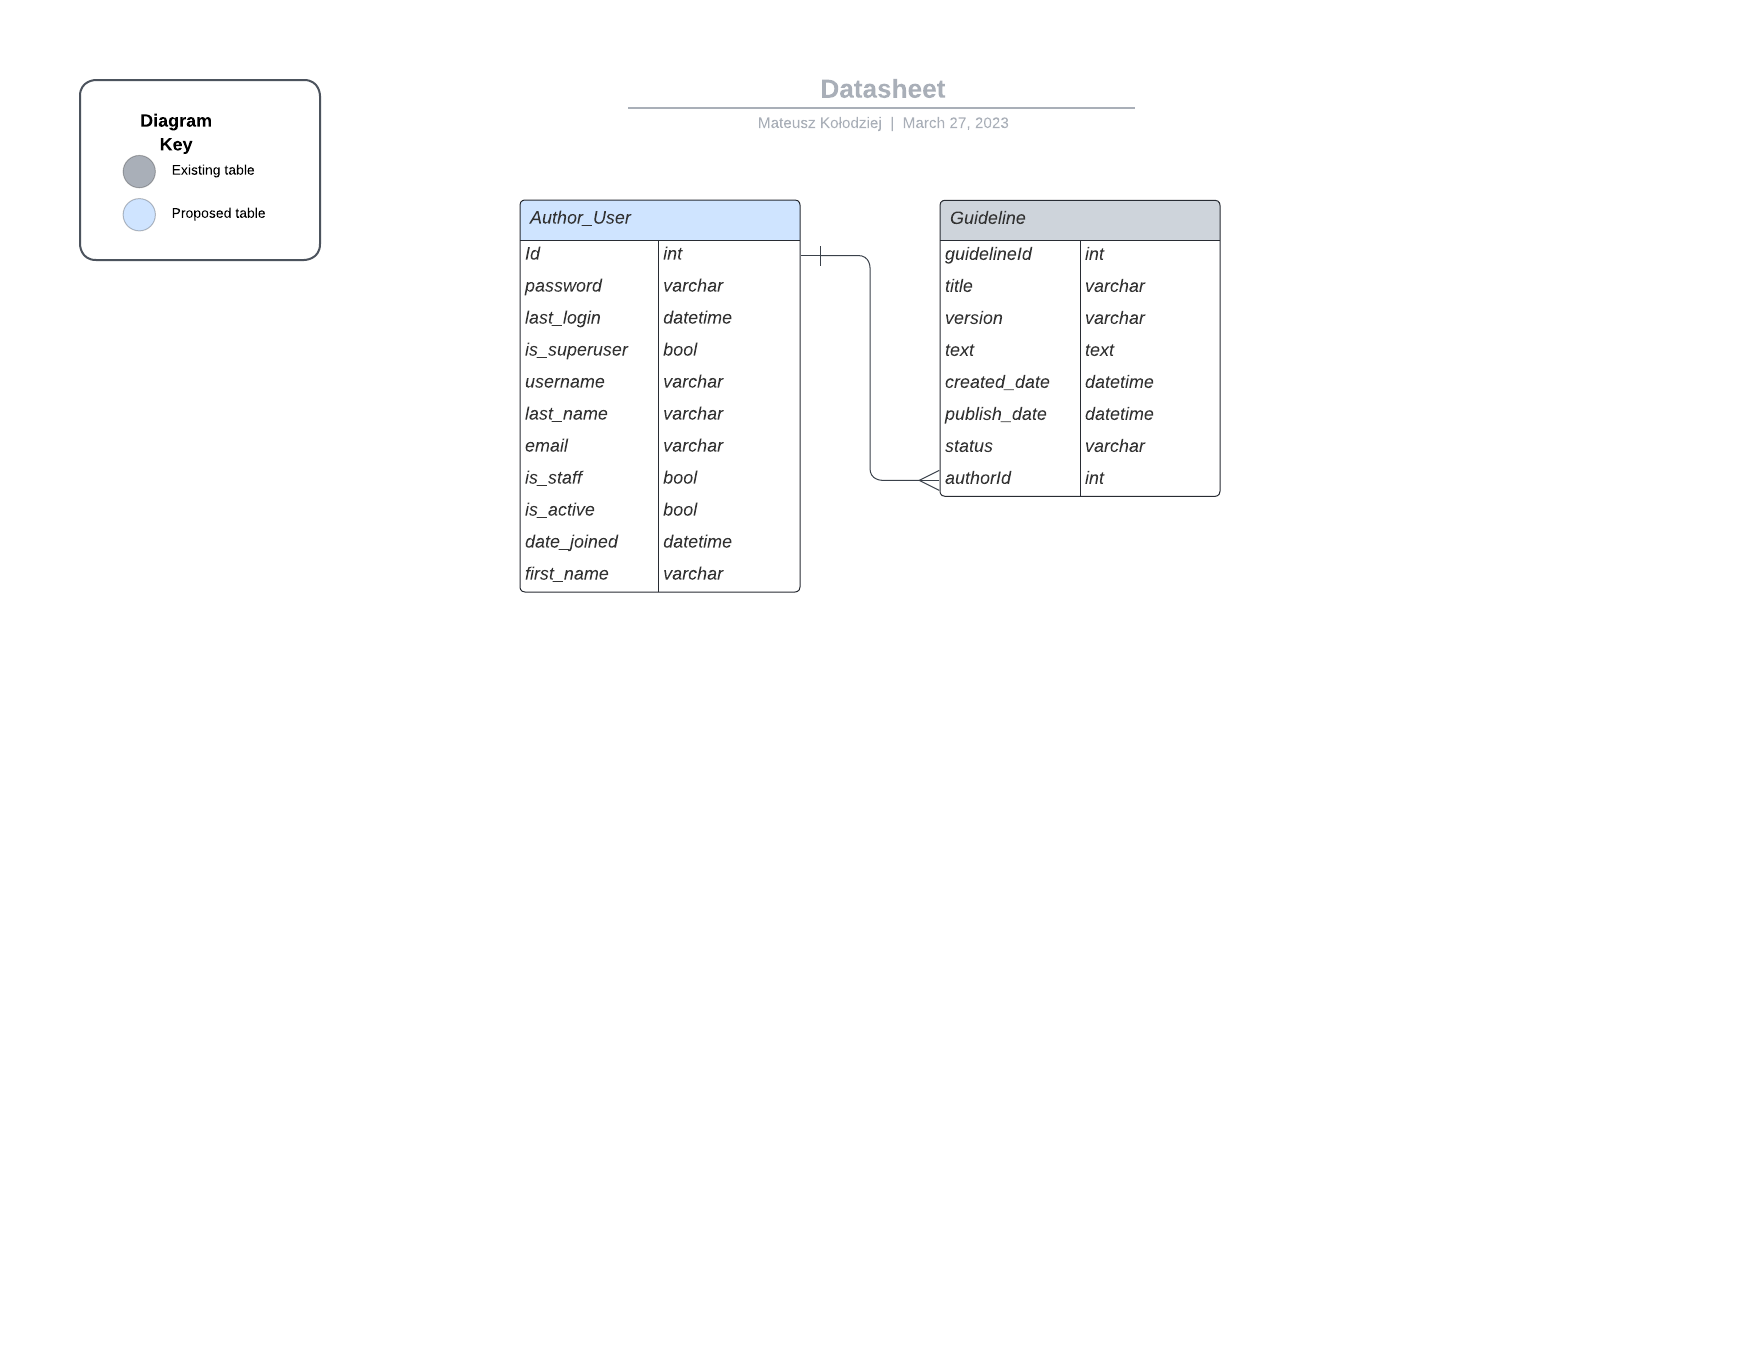
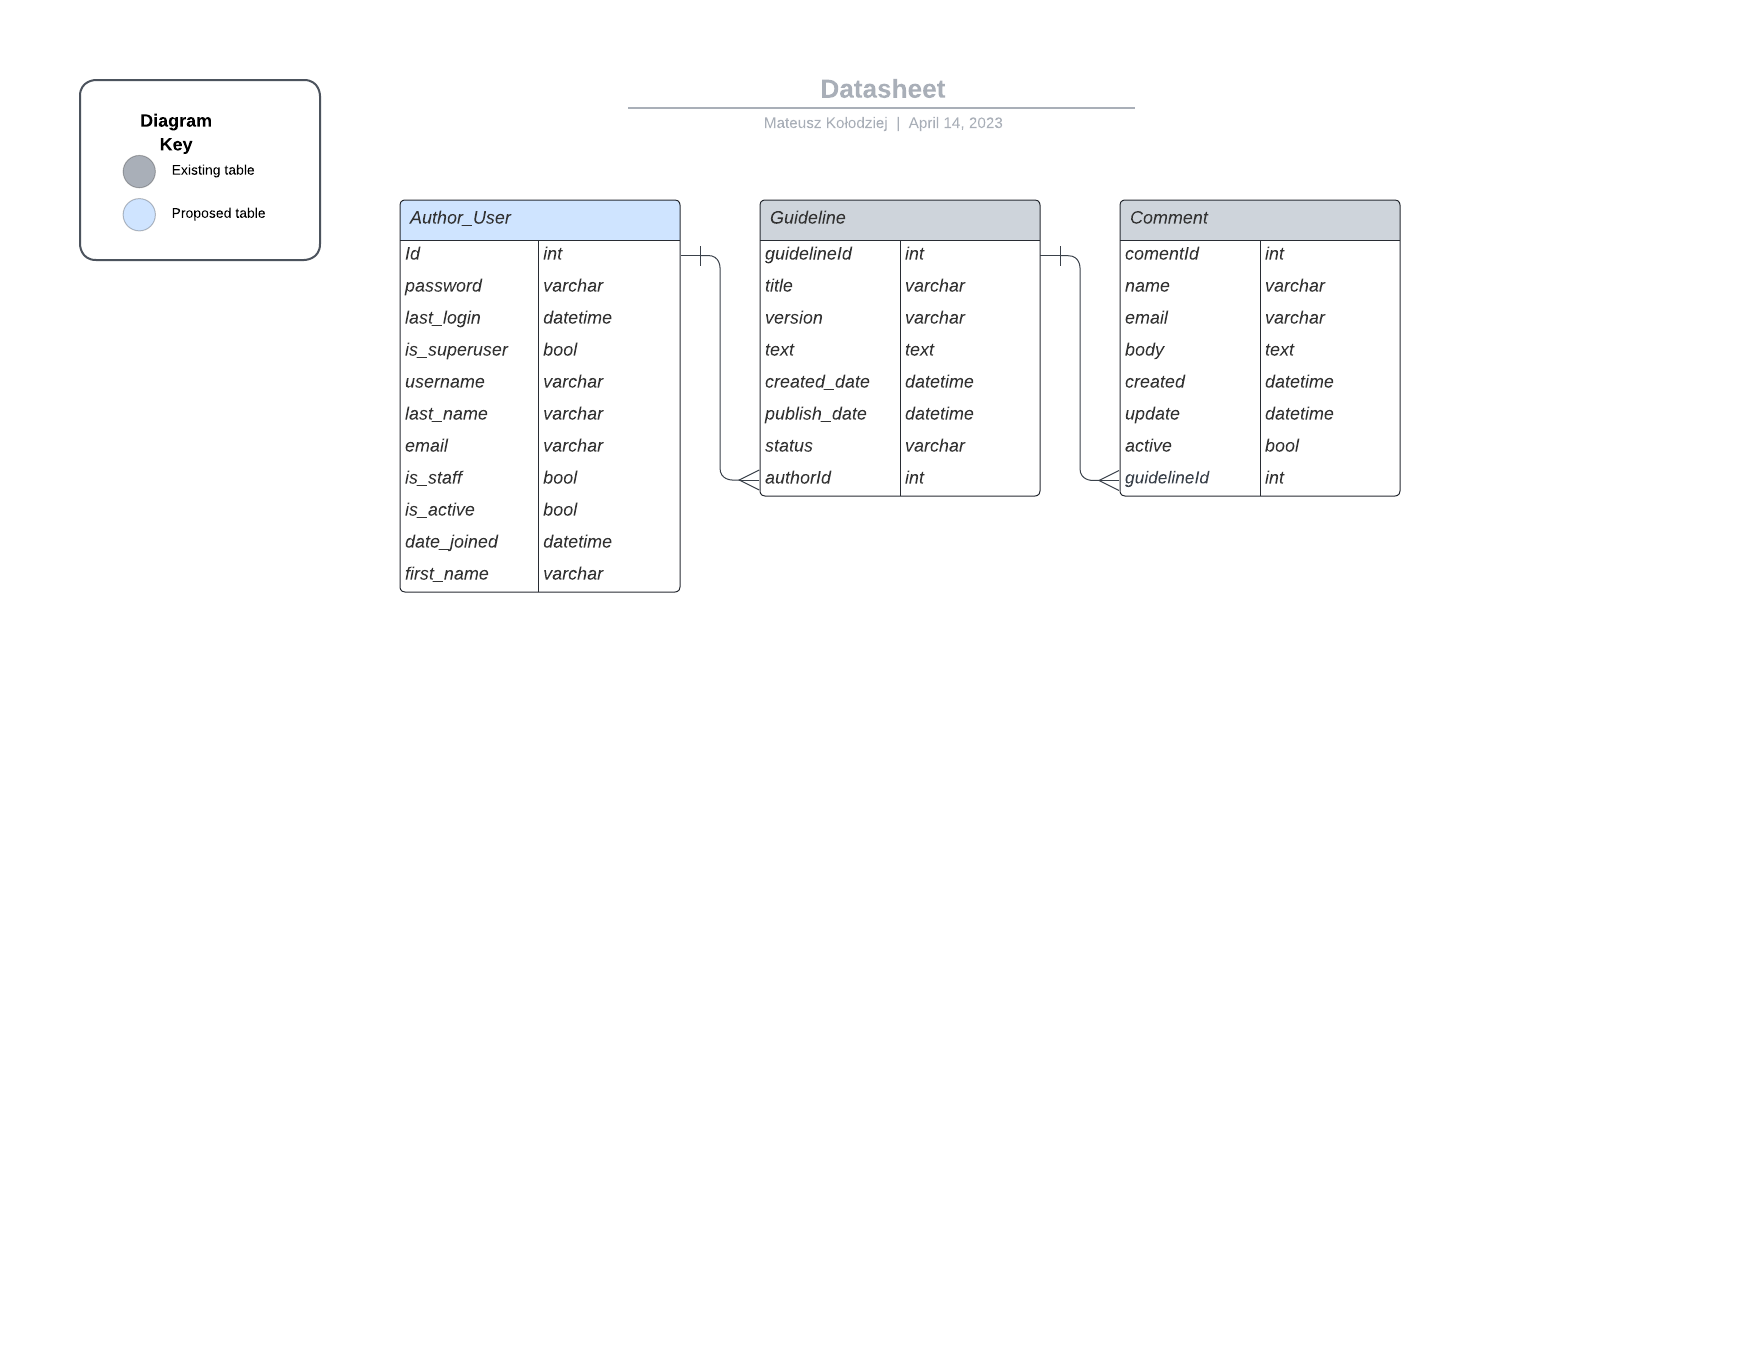
Comment function was added.

diff --git a/desk/datasheet/templates/datasheet/guideline_detail.html b/desk/datasheet/templates/datasheet/guideline_detail.html
@@ -8,18 +8,41 @@
 
     {% if one_guideline.publish_date %}
     <div class="date">
-      {{ one_guideline.publish_date }}
+      published date: {{ one_guideline.publish_date }}
     </div>
     {% endif %}
     {% if user.is_authenticated %}
     <a href="{% url 'guideline_edit' pk=one_guideline.pk %}">
       <button type="submit" class="btn btn-outline-success">Edit</button>
     </a>
-
-
+    {% endif %}
+    {% if one_guideline.status == 'certified' %}
     <a href="{% url 'guideline_share' pk=one_guideline.pk %}">
-      Share the guideline
+      <button type="submit" class="btn btn-outline-success">Send Email</button>
     </a>
     {% endif %}
+
+    {% with one_guideline.comments.count as total_comments %}
+    <h2 class="headComment">
+      {{ total_comments }} Comment{{ total_comments|pluralize:"s:" }}
+    </h2><br />
+    {% endwith %}
+
+    {% for comment in one_guideline.comments.all %}
+    <div class="comment">
+      <p class="info">
+        Comment {{ forloop.counter }} added by {{ comment.name }}
+        {{ comment.created }}
+      </p>
+      {{ comment.body|linebreaks }}
+    </div>
+    {% empty %}
+      <p>Not Comments Yet...</p>
+    {% endfor %}
+    <br />
+    <a href="{% url 'guideline_comment' pk=one_guideline.pk %}">
+      <button type="submit" class="btn btn-outline-success">Add Comment</button>
+    </a>
+
   </div>
 {% endblock %}

diff --git a/desk/datasheet/static/css/guideline.css b/desk/datasheet/static/css/guideline.css
@@ -2,6 +2,9 @@ h1 a, h2 a{
     color: #03FBCE;
     text-decoration: none;
 }
+a{
+    text-decoration: none;
+}
 body{
     font-family: 'Lato', sans-sarif;
     background-color: #00261F;
@@ -9,7 +12,7 @@ body{
 }
 img{
     border-radius: 10px;
-    float:left;
+    float: left;
     margin: 10px;
 }
 input, textarea{
@@ -74,7 +77,26 @@ input, textarea{
     width: 100%;
 }
 .label{
-    float: right;
     color: #828282;
     padding: 10px;
+}
+input, label{
+    display:block;
+    display:flex;
+    flex-direction:column;
+}
+.headComment{
+    padding: 10px;
+}
+.comment{
+    padding: 10px;
+    border-radius: 10px;
+}
+.comment:nth-child(even){
+    background: #003229;
+}
+.comment .info{
+    font-weight: bold;
+    font-size: 12px;
+    color: #666;
 }

diff --git a/desk/datasheet/templates/datasheet/guideline_comment.html b/desk/datasheet/templates/datasheet/guideline_comment.html
@@ -1,10 +1,12 @@
-<!DOCTYPE html>
-<html lang="en">
-<head>
-  <meta charset="UTF-8">
-  <title>$Title$</title>
-</head>
-<body>
-$END$
-</body>
-</html>
+{% extends 'datasheet/base.html' %}
+
+{% block content %}
+<h2>Add a new comment:</h2>
+<!--      <form method="post">-->
+<form method="post" class="post-form">
+    {{ form.as_p }}
+    {% csrf_token %}
+    <button type="submit" class="btn btn-outline-success">Add Comment</button>
+</form>
+
+{% endblock %}

diff --git a/desk/datasheet/views.py b/desk/datasheet/views.py
@@ -1,12 +1,12 @@
 from django.shortcuts import render, get_object_or_404, redirect
 from django.utils import timezone
-from .models import Guideline
+from .models import Guideline, Comment
 from django.http import HttpResponseRedirect
 from django.urls import reverse_lazy
-from .forms import GuideForm, EmailPostForm
+from .forms import GuideForm, EmailPostForm, CommentForm
 from django.views.generic import DetailView
 from django.views.generic import TemplateView
-from django.views.generic import ListView
+from django.views.generic import ListView, CreateView
 from rest_framework.views import APIView
 from rest_framework.response import Response
 from rest_framework import status
@@ -57,9 +57,31 @@ def guideline_list(request):
 
 def guideline_detail(request, pk):
     one_guideline = get_object_or_404(Guideline, pk=pk)
+
     return render(request,
                   'datasheet/guideline_detail.html',
                   {'one_guideline': one_guideline})
+
+    # comments = one_guideline.comments.filter(active=True)
+
+    # if request.method == 'POST':
+    #     comment_form = CommentForm(data=request.POST)
+    #     if comment_form.is_valid():
+    #         new_comment = comment_form.save(commit=False)
+    #         new_comment.one_guideline = one_guideline
+    #         new_comment.save()
+    #         return redirect('guideline_comment', pk=one_guideline.pk)
+    #         # return HttpResponseRedirect('/api/guideline/9')
+    #         # return redirect('guideline_detail', pk=one_guideline.pk)
+    # else:
+    #     comment_form = CommentForm()
+    #     # return redirect('guideline_detail', pk=one_guideline.pk)
+    #
+    # return render(request,
+    #               'datasheet/guideline_detail.html',
+    #               {'one_guideline': one_guideline,
+    #                'comments': comments,
+    #                'comment_form': comment_form})
 
 
 def error_404_view(request, exception):
@@ -132,7 +154,7 @@ def guideline_share(request, pk):
         form = EmailPostForm(request.POST)
         if form.is_valid():
             cd = form.cleaned_data
-            #guideline_url = request.build_absolute_uri(guideline.get_absolute_url())
+            # guideline_url = request.build_absolute_uri(guideline.get_absolute_url())
             guideline_url = request.build_absolute_uri()
             subject = '{} ({}) encourage to read the guideline "{}"'.format(cd['name'],
                                                                             cd['email'],
@@ -156,7 +178,21 @@ class GuideListView(ListView):  # Object solution. It is proceeding as first.
     queryset = Guideline.objects.filter(publish_date__lte=timezone.now()).order_by('-publish_date')
     context_object_name = 'guideline'
     paginate_by = 3
-    template_name = 'desk/datasheet/guideline_list.html'
+    template_name = 'datasheet/guideline_list.html'
+    # template_name = 'desk/datasheet/guideline_list.html'
+
+
+class GuideCommentView(CreateView):
+    model = Comment
+    form_class = CommentForm
+    template_name = 'datasheet/guideline_comment.html'
+
+    def form_valid(self, form):
+        form.instance.guideline_id = self.kwargs['pk']
+        return super().form_valid(form)
+
+    success_url = reverse_lazy('guideline_list')
+    # fields = '__all__'
 
 
 class GuidelineViews(APIView):

diff --git a/desk/datasheet/migrations/0005_alter_guideline_status_comment.py b/desk/datasheet/migrations/0005_alter_guideline_status_comment.py
@@ -1,0 +1,35 @@
+# Generated by Django 4.1.5 on 2023-04-09 05:03
+
+from django.db import migrations, models
+import django.db.models.deletion
+
+
+class Migration(migrations.Migration):
+
+    dependencies = [
+        ('datasheet', '0004_alter_guideline_options_guideline_status'),
+    ]
+
+    operations = [
+        migrations.AlterField(
+            model_name='guideline',
+            name='status',
+            field=models.CharField(choices=[('draft', 'Draft'), ('certified', 'Certified')], default='draft', max_length=10),
+        ),
+        migrations.CreateModel(
+            name='Comment',
+            fields=[
+                ('id', models.BigAutoField(auto_created=True, primary_key=True, serialize=False, verbose_name='ID')),
+                ('name', models.CharField(max_length=80)),
+                ('email', models.EmailField(max_length=254)),
+                ('body', models.TextField()),
+                ('created', models.DateTimeField(auto_now_add=True)),
+                ('updated', models.DateTimeField(auto_now=True)),
+                ('active', models.BooleanField(default=True)),
+                ('guideline', models.ForeignKey(on_delete=django.db.models.deletion.CASCADE, related_name='comments', to='datasheet.guideline')),
+            ],
+            options={
+                'ordering': ('created',),
+            },
+        ),
+    ]

diff --git a/desk/datasheet/urls.py b/desk/datasheet/urls.py
@@ -1,11 +1,12 @@
 from django.urls import path
 from . import views
-from .views import GuidelineViews
+from .views import GuidelineViews, GuideCommentView, GuideListView
 
 urlpatterns = [
     # path('', views.guideline_list, name='guideline_list'),
-    path('', views.GuideListView.as_view(), name='guideline_list'),
+    path('', GuideListView.as_view(), name='guideline_list'),
     path('guideline/<int:pk>', views.guideline_detail, name='guideline_detail'),
+    path('guideline/<int:pk>/comment/', GuideCommentView.as_view(), name='guideline_comment'),
     path('guideline/new/', views.guide_new, name='guide_new'),
     path('guideline/<int:pk>/edit/', views.guideline_edit, name='guideline_edit'),
     path('guideline/guideline_search/', views.guideline_search, name='guideline_search'),

diff --git a/desk/desk/settings.py b/desk/desk/settings.py
@@ -137,8 +137,8 @@ DEFAULT_AUTO_FIELD = 'django.db.models.BigAutoField'
 # EMAIL_BACKEND = 'django.core.mail.backends.console.EmailBackend'
 EMAIL_HOST = 'smtp.gmail.com'
 EMAIL_HOST_USER = 'guideline2023@gmail.com'
-#EMAIL_HOST_PASSWORD = ''
-EMAIL_HOST_PASSWORD = ''
+#EMAIL_HOST_PASSWORD = '3202enilediug'
+EMAIL_HOST_PASSWORD = 'zonhmpvfazgkpsll'
 EMAIL_PORT = 587
 EMAIL_USE_TLS = True
 # from django.core.mail import send_mail

diff --git a/desk/datasheet/tests/test_views.py b/desk/datasheet/tests/test_views.py
@@ -58,6 +58,8 @@ class TestViews(TestCase):
         self.assertEquals(response.status_code, 200)
         self.assertEquals(self.product2.title, 'test02')
 
+    # python3 manage.py test datasheet
+
     # def test_guide_new_create_POST(self):
     #
     #     url = reverse('guide_new')
